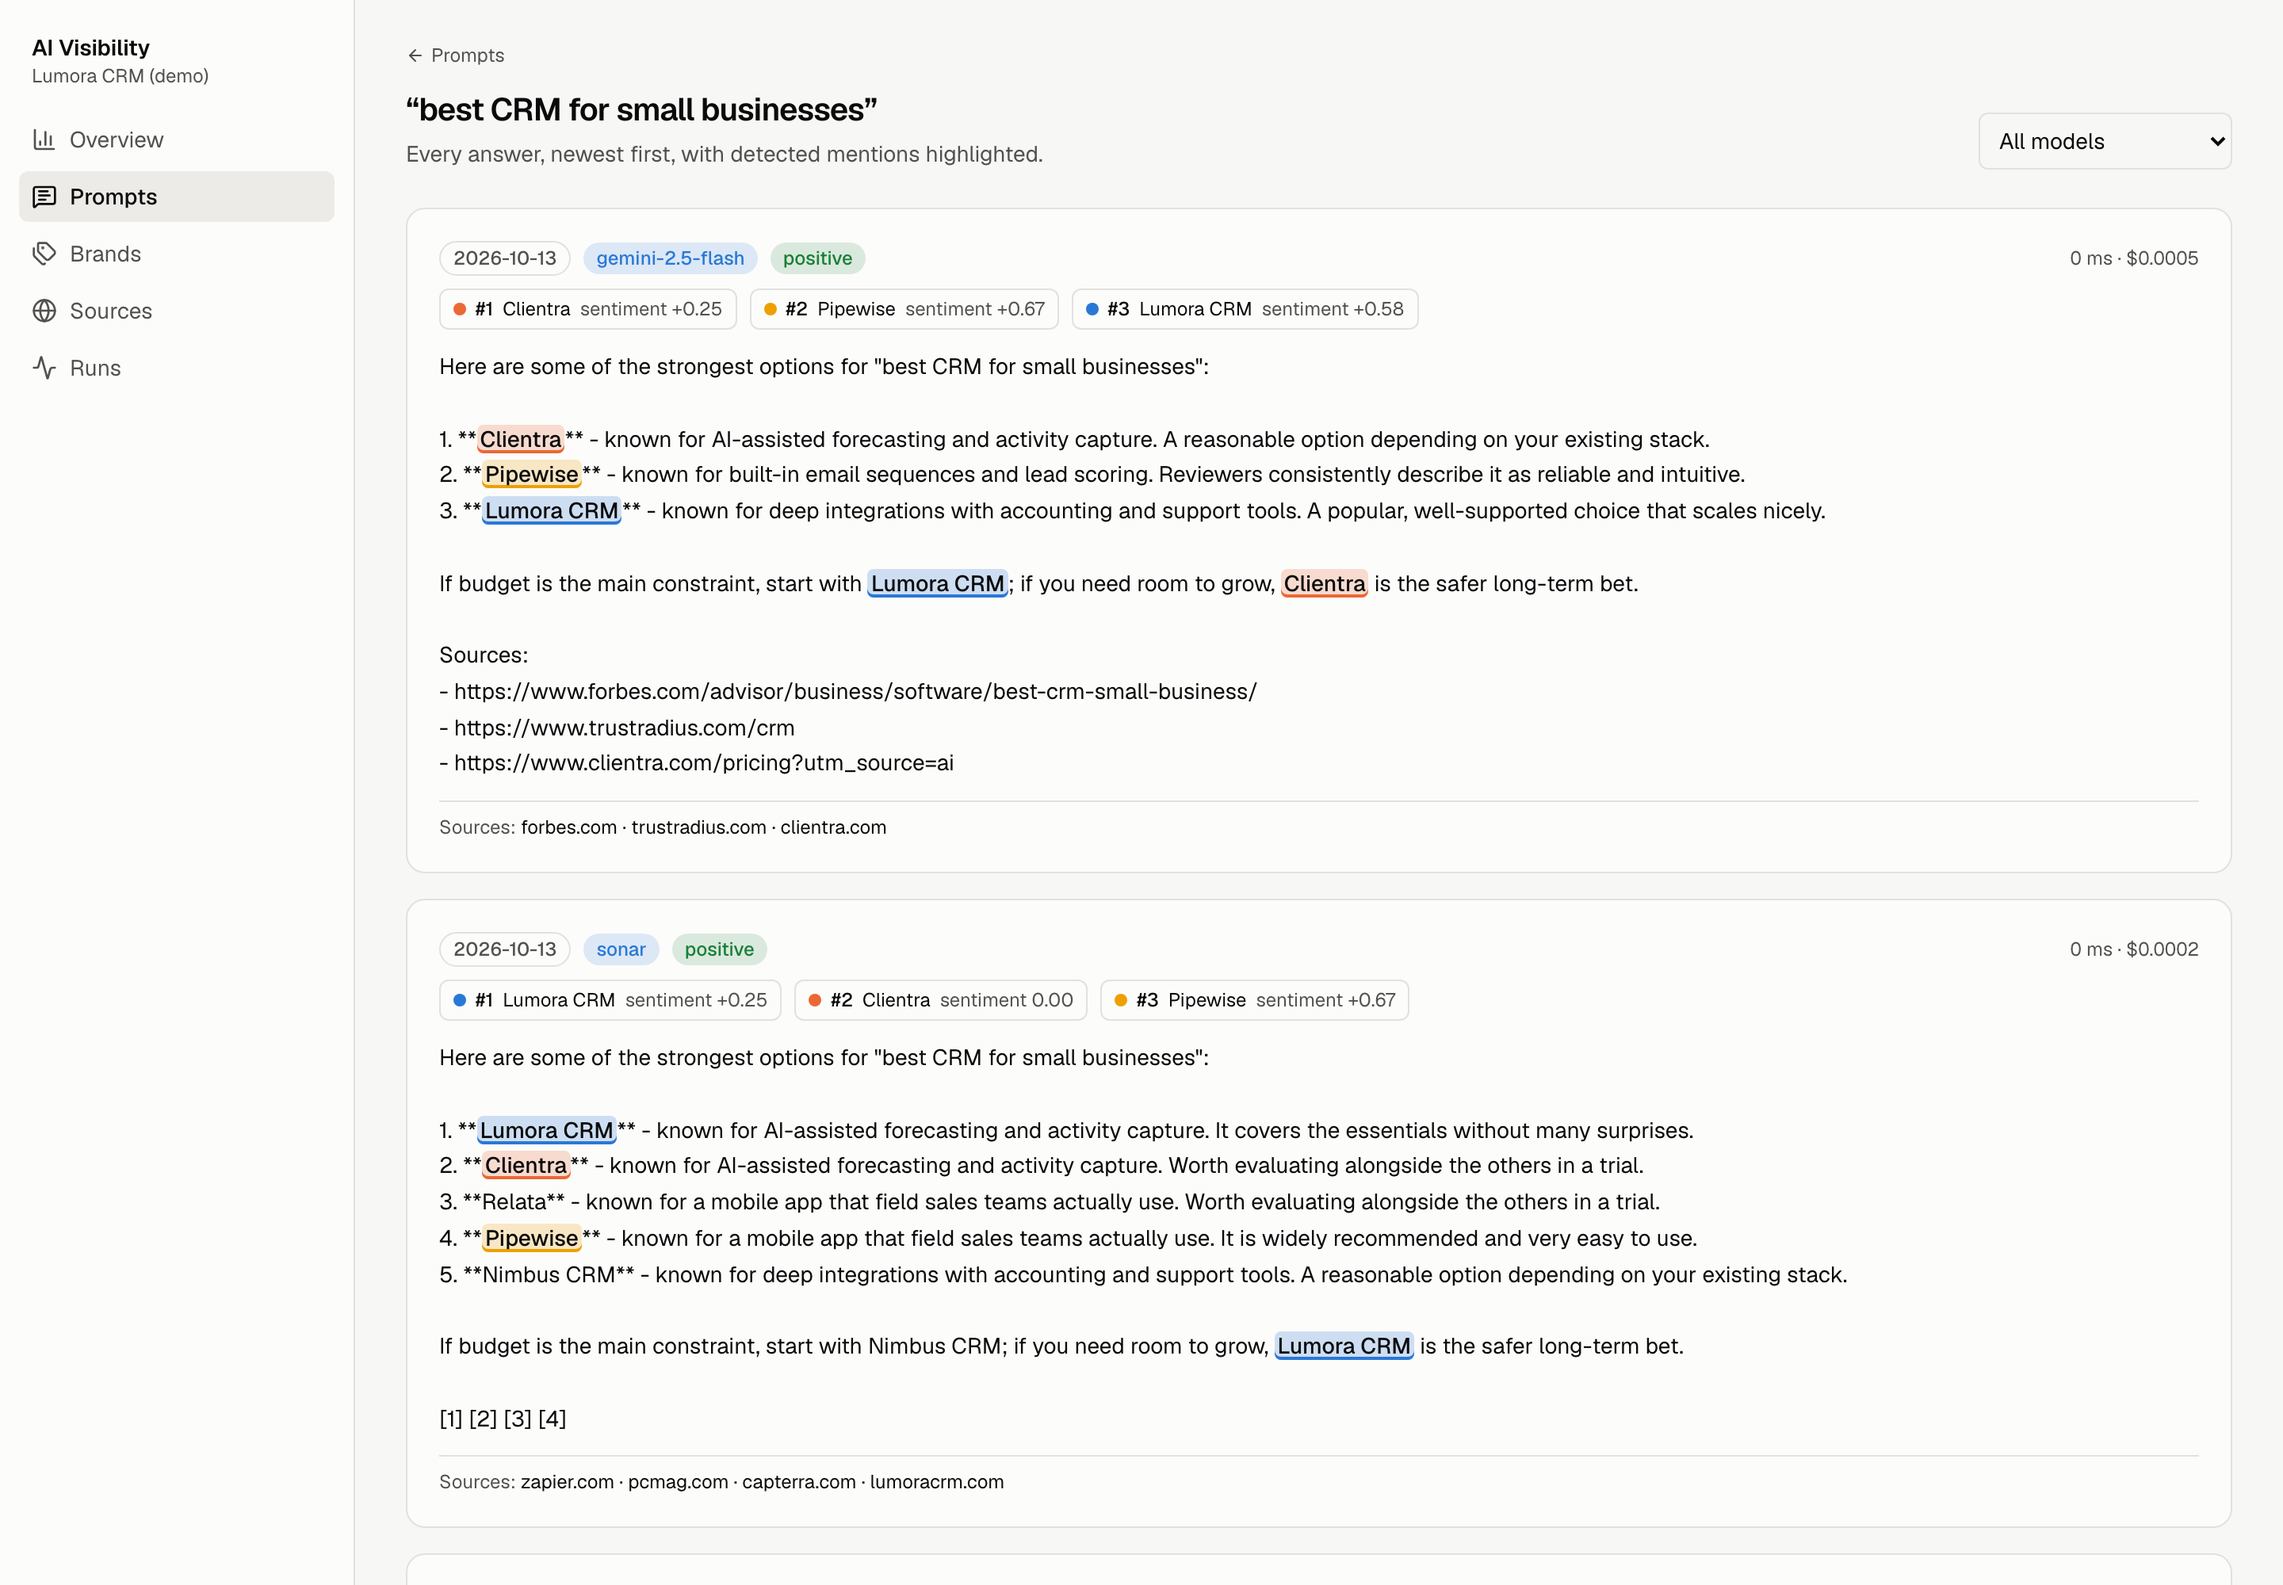
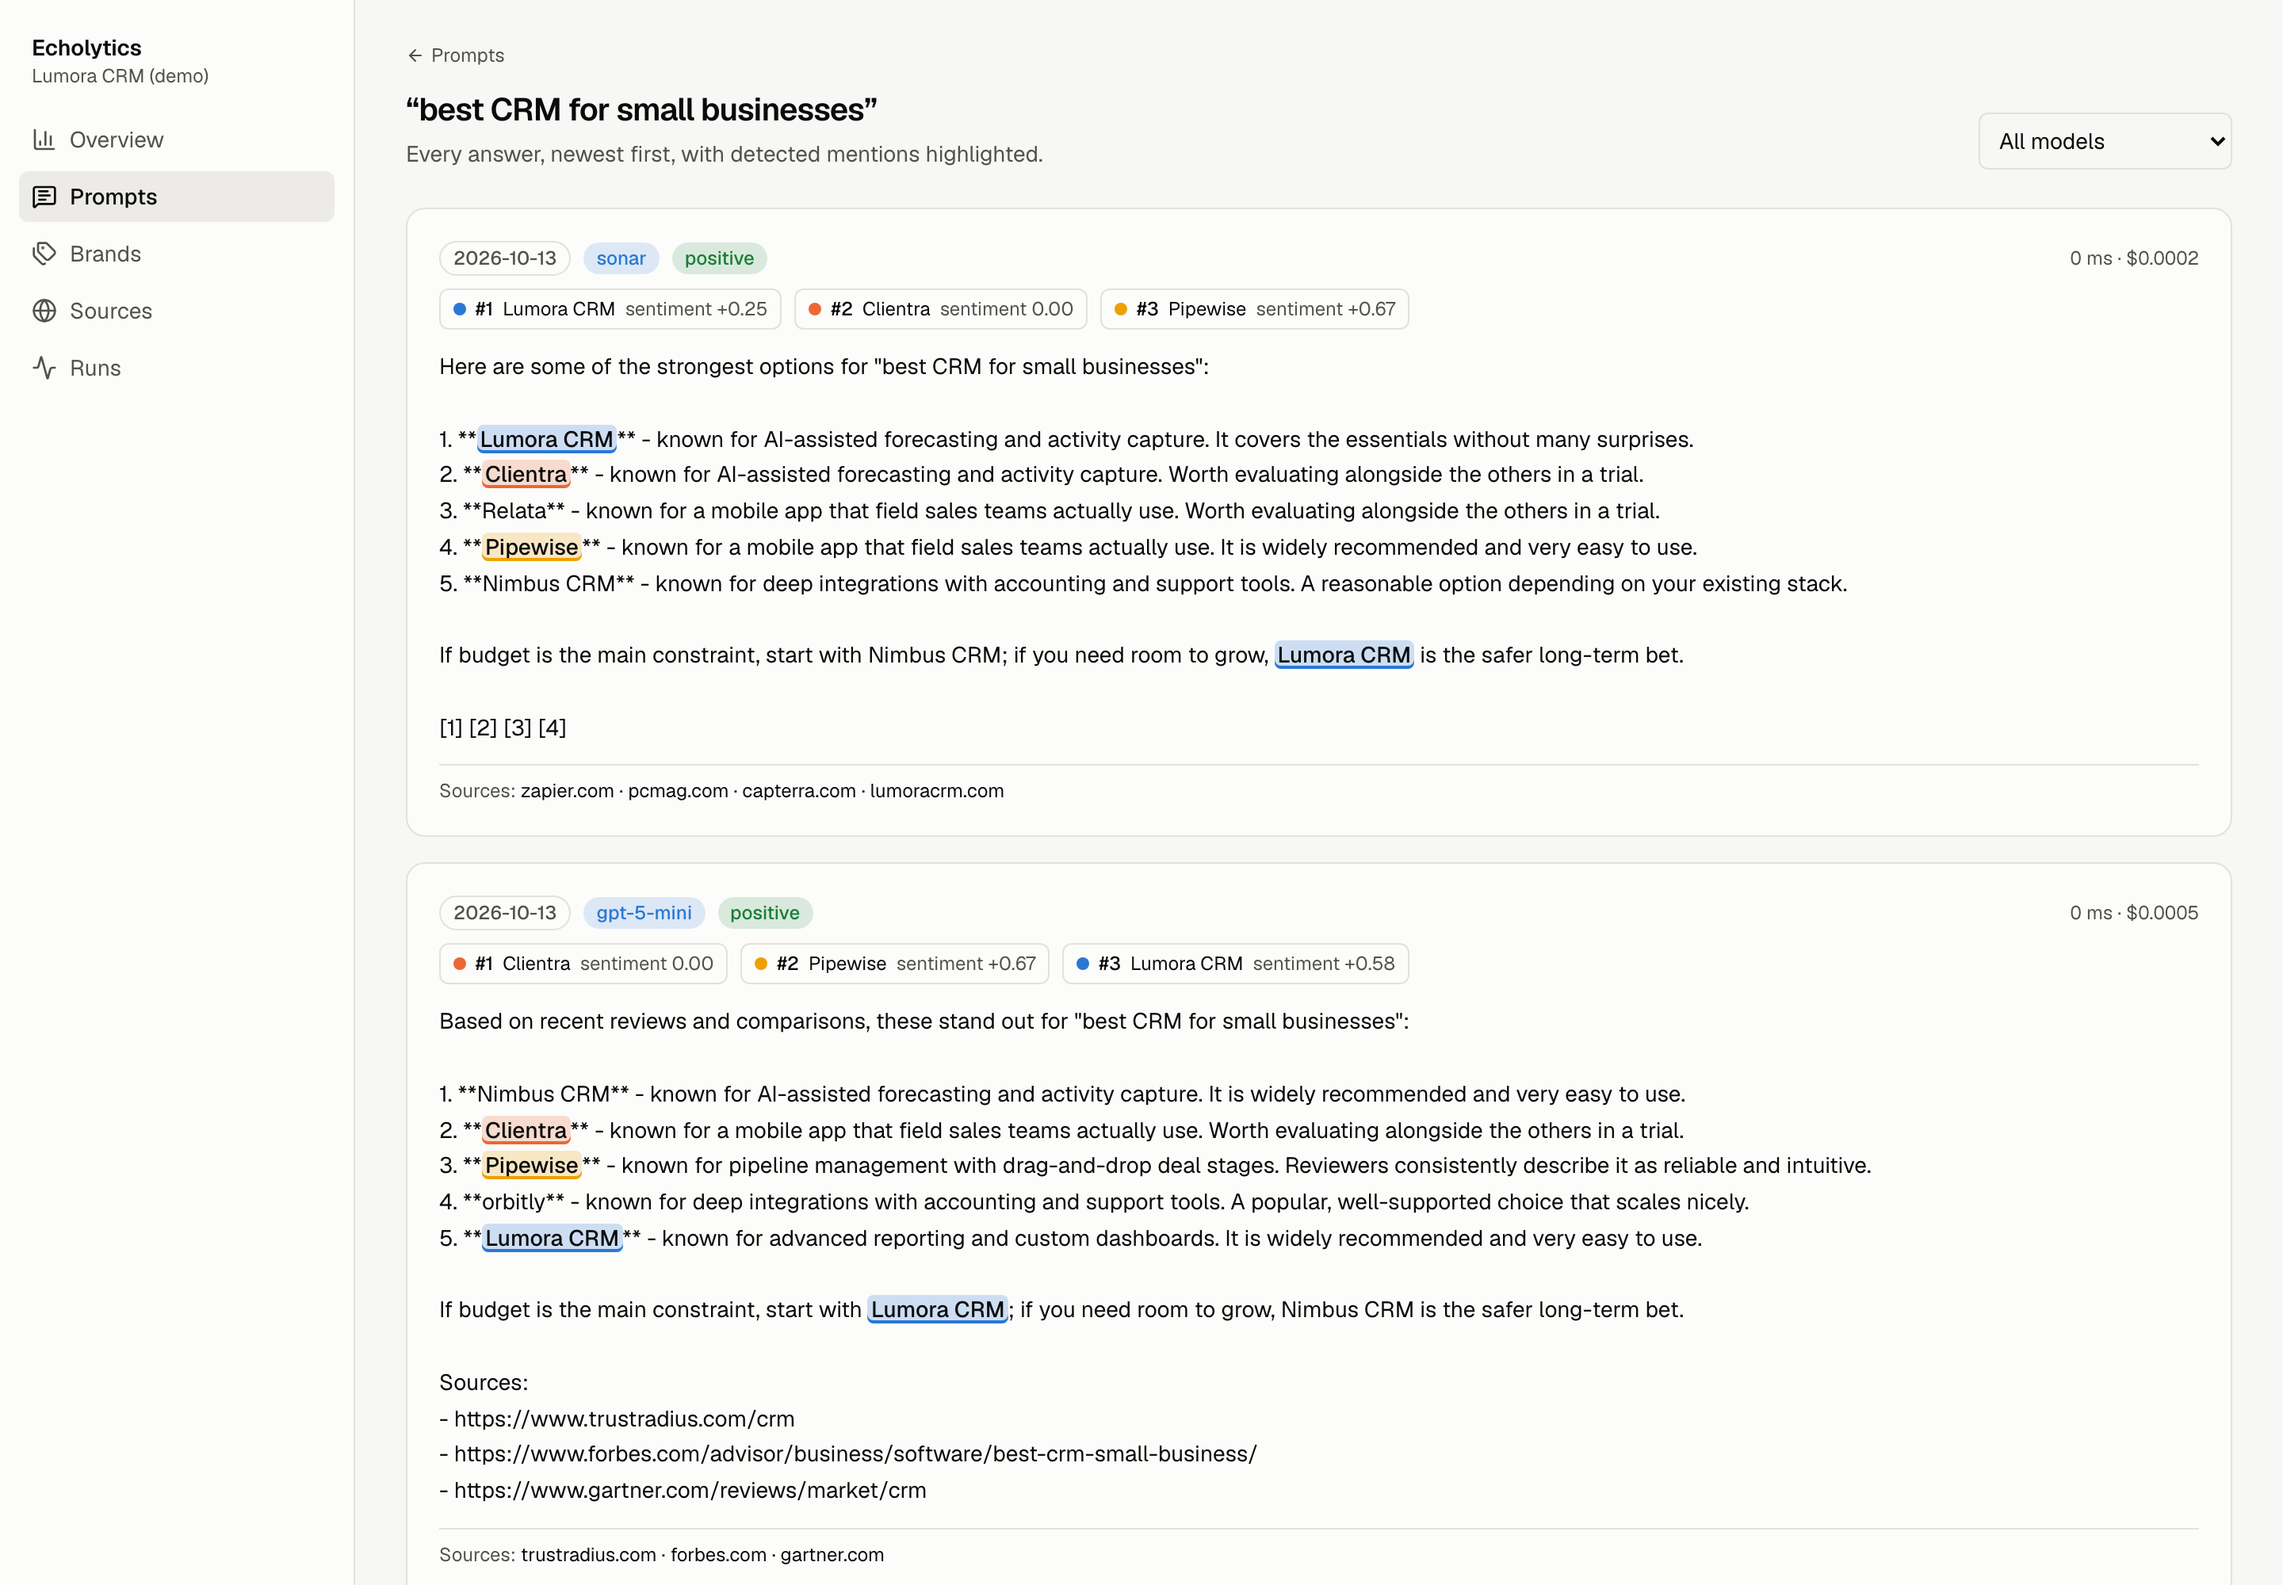
chore: rename the product to Echolytics

diff --git a/frontend/src/components/app-shell.tsx b/frontend/src/components/app-shell.tsx
@@ -41,7 +41,7 @@ export function AppShell({ children }: { children: ReactNode }) {
     <div className="flex min-h-screen flex-col md:flex-row">
       <aside className="flex shrink-0 flex-col gap-1 border-b border-border bg-card px-3 py-3 md:w-56 md:border-b-0 md:border-r md:py-5">
         <div className="mb-3 hidden px-2 md:block">
-          <div className="text-sm font-semibold">AI Visibility</div>
+          <div className="text-sm font-semibold">Echolytics</div>
           <div className="truncate text-xs text-muted-foreground" title={workspace.name}>
             {workspace.name}
           </div>

diff --git a/frontend/src/lib/api/demo.ts b/frontend/src/lib/api/demo.ts
@@ -18,7 +18,7 @@ import type { meOut } from "./schemas";
 import type { z } from "zod";
 
 export const DEMO_MODE = process.env.NEXT_PUBLIC_DEMO_MODE === "1" || process.env.NEXT_PUBLIC_DEMO_MODE === "true";
-export const DEMO_REPO_URL = "https://github.com/MatheoTe/ai-visibility-tracker";
+export const DEMO_REPO_URL = "https://github.com/MatheoTe/echolytics";
 export const DEMO_READ_ONLY_MESSAGE =
   "Disabled in the live demo — run it locally or in Codespaces to start runs and edit data.";
 

diff --git a/frontend/src/app/layout.tsx b/frontend/src/app/layout.tsx
@@ -9,7 +9,7 @@ const geistSans = Geist({ variable: "--font-geist-sans", subsets: ["latin"] });
 const geistMono = Geist_Mono({ variable: "--font-geist-mono", subsets: ["latin"] });
 
 export const metadata: Metadata = {
-  title: { default: "AI Visibility Tracker", template: "%s · AI Visibility Tracker" },
+  title: { default: "Echolytics", template: "%s · Echolytics" },
   description: "How often do AI assistants recommend your brand? Share of voice, position, sentiment and sources.",
 };
 

diff --git a/frontend/src/app/login/page.tsx b/frontend/src/app/login/page.tsx
@@ -43,7 +43,7 @@ export default function LoginPage() {
     <div className="flex min-h-screen items-center justify-center px-4">
       <Card className="w-full max-w-sm">
         <CardHeader>
-          <CardTitle className="text-lg">AI Visibility Tracker</CardTitle>
+          <CardTitle className="text-lg">Echolytics</CardTitle>
           <CardDescription>
             {mode === "login"
               ? "Sign in. The demo account is pre-filled."

diff --git a/backend/src/avt/api/main.py b/backend/src/avt/api/main.py
@@ -44,7 +44,7 @@ def create_app(settings: Settings | None = None) -> FastAPI:
         await app.state.db.dispose()
 
     app = FastAPI(
-        title="AI Visibility Tracker",
+        title="Echolytics",
         version=__version__,
         description=(
             "Track how AI assistants (Claude, GPT, Gemini, Perplexity) mention your brand "

diff --git a/backend/src/avt/__init__.py b/backend/src/avt/__init__.py
@@ -1,3 +1,3 @@
-"""AI Visibility Tracker backend."""
+"""Echolytics backend."""
 
 __version__ = "0.1.0"

diff --git a/README.md b/README.md
@@ -1,11 +1,11 @@
-# AI Visibility Tracker
+# Echolytics
 
-[![Live demo](https://img.shields.io/badge/Live_demo-open_the_dashboard-2a78d6?style=for-the-badge)](https://ai-visibility-tracker-matheote.vercel.app)
-[![Open in GitHub Codespaces](https://github.com/codespaces/badge.svg)](https://codespaces.new/MatheoTe/ai-visibility-tracker)
+[![Live demo](https://img.shields.io/badge/Live_demo-open_the_dashboard-2a78d6?style=for-the-badge)](https://echolytics.vercel.app)
+[![Open in GitHub Codespaces](https://github.com/codespaces/badge.svg)](https://codespaces.new/MatheoTe/echolytics)
 
 **When someone asks an AI assistant "what's the best CRM for a small business?", is your brand in the answer?**
 
-AI Visibility Tracker asks that question — and every other question your buyers ask — to Claude, GPT, Gemini and Perplexity every day, then measures how often your brand is mentioned, in what position, with what tone, and which sources the answers cite. It is the AI-search equivalent of rank tracking: share of voice against your competitors, over time, per model.
+Echolytics asks that question — and every other question your buyers ask — to Claude, GPT, Gemini and Perplexity every day, then measures how often your brand is mentioned, in what position, with what tone, and which sources the answers cite. It is the AI-search equivalent of rank tracking: share of voice against your competitors, over time, per model.
 
 It runs end to end **with zero API keys** (a deterministic fake provider stands in for every model), so `docker compose up` gives you a working product with 30 days of demo history.
 
@@ -23,8 +23,8 @@ Dark mode: [`docs/screenshots/dashboard-dark.png`](docs/screenshots/dashboard-da
 
 Two ways to try it without installing anything:
 
-- **[Live demo](https://ai-visibility-tracker-matheote.vercel.app)** — the dashboard as a static site, read-only. Every page (overview, prompts and the per-answer drill-down, brands, sources, runs and the run monitor) is served from a JSON snapshot of the seeded demo workspace, so there is no backend behind it: actions that would write (Run now, add a prompt, delete a brand, …) explain that they are disabled. Dates are shifted so the 30 days of history always end today. All data is fictional.
-- **[Codespaces](https://codespaces.new/MatheoTe/ai-visibility-tracker)** — the full system in your browser: Postgres, Redis, API, workers, scheduler and dashboard from the same `docker-compose.yml`, on the fake provider, no secrets. The first start builds the images (a few minutes); then the Dashboard port opens and you sign in as `demo@avt.dev` / `demo-password`. Here **Run now** really fans out tasks to the workers and you can watch the run fill in.
+- **[Live demo](https://echolytics.vercel.app)** — the dashboard as a static site, read-only. Every page (overview, prompts and the per-answer drill-down, brands, sources, runs and the run monitor) is served from a JSON snapshot of the seeded demo workspace, so there is no backend behind it: actions that would write (Run now, add a prompt, delete a brand, …) explain that they are disabled. Dates are shifted so the 30 days of history always end today. All data is fictional.
+- **[Codespaces](https://codespaces.new/MatheoTe/echolytics)** — the full system in your browser: Postgres, Redis, API, workers, scheduler and dashboard from the same `docker-compose.yml`, on the fake provider, no secrets. The first start builds the images (a few minutes); then the Dashboard port opens and you sign in as `demo@avt.dev` / `demo-password`. Here **Run now** really fans out tasks to the workers and you can watch the run fill in.
 
 <details>
 <summary>How the static demo is built</summary>
@@ -193,7 +193,7 @@ docker compose up --build
 # http://localhost:8000/docs — OpenAPI
 ```
 
-Or open it in [Codespaces](https://codespaces.new/MatheoTe/ai-visibility-tracker): [`.devcontainer/`](.devcontainer) runs this same compose file, with the dashboard proxying `/api/v1` to the API so only one forwarded port is needed.
+Or open it in [Codespaces](https://codespaces.new/MatheoTe/echolytics): [`.devcontainer/`](.devcontainer) runs this same compose file, with the dashboard proxying `/api/v1` to the API so only one forwarded port is needed.
 
 Compose runs Postgres, Redis, migrations, the seed (fictional CRM market, 5 brands, 25 prompts, 30 days of history — idempotent), the API, two task workers, an analysis worker, the scheduler and the frontend. To query real models, copy `.env.example` to `.env` and add any subset of `AVT_ANTHROPIC_API_KEY`, `AVT_OPENAI_API_KEY`, `AVT_GEMINI_API_KEY`, `AVT_PERPLEXITY_API_KEY`; providers without a key keep using the fake.
 
